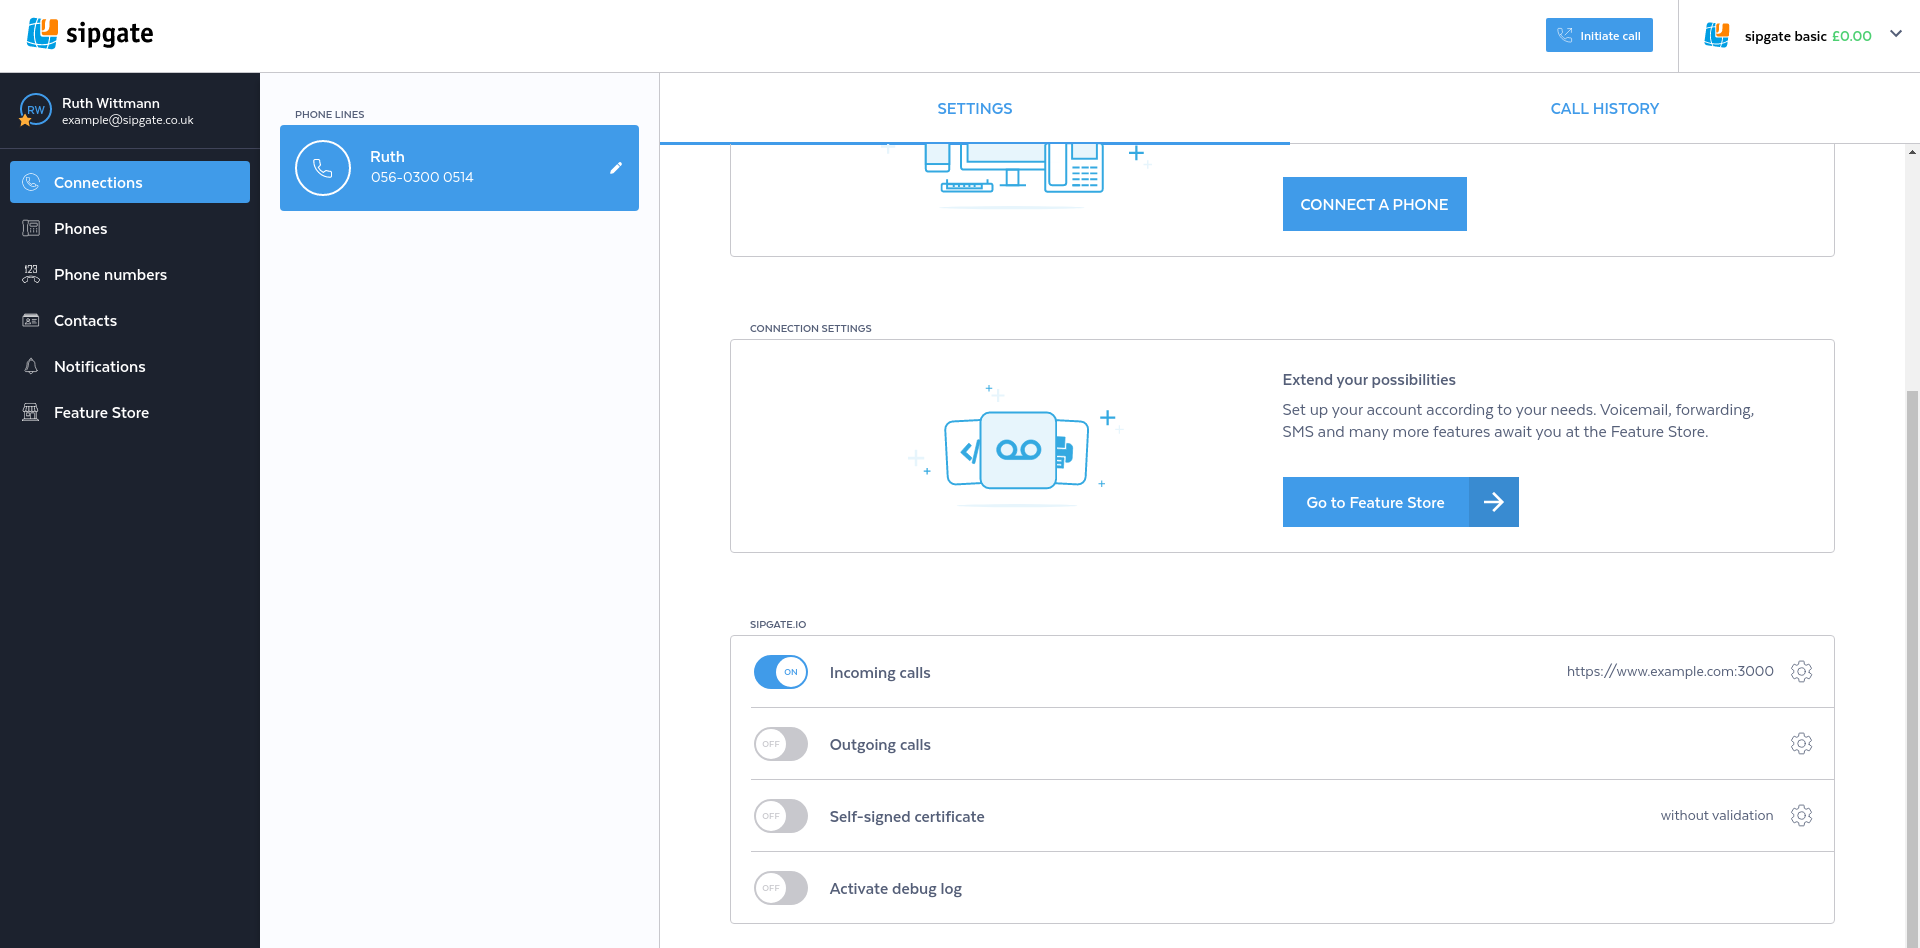
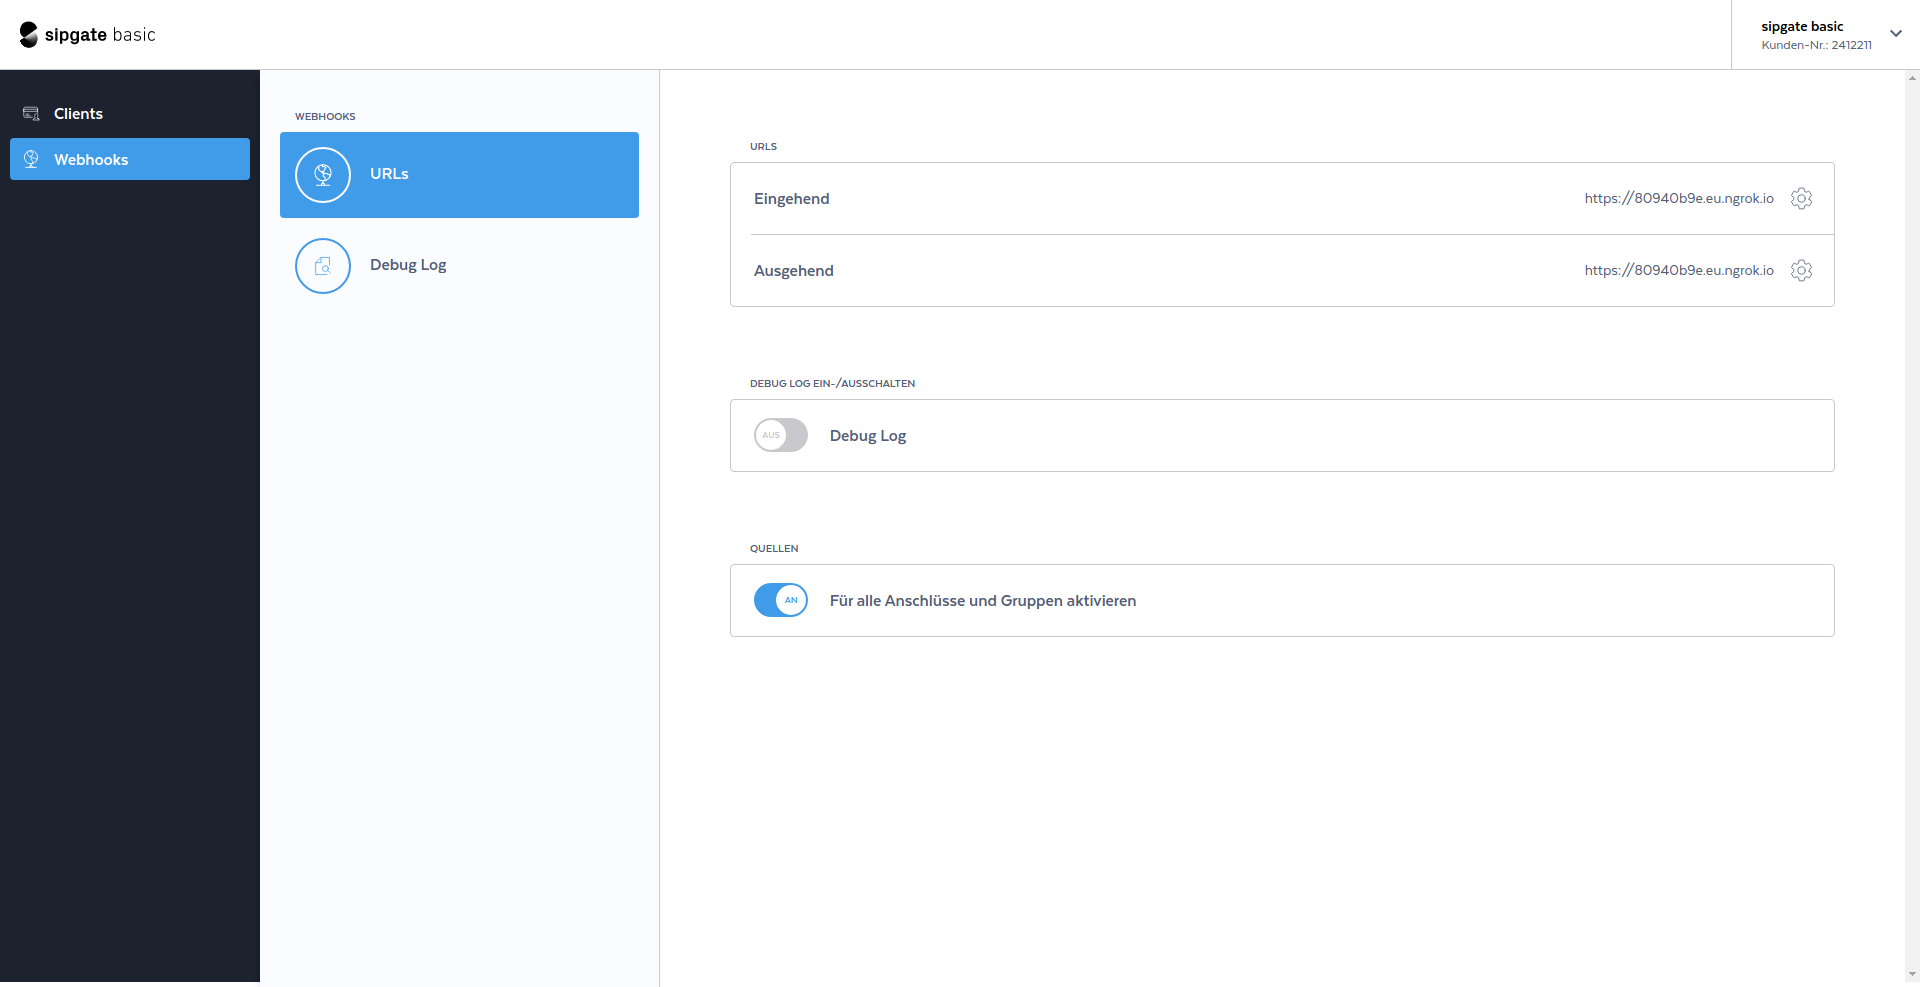
Update push api troubleshooting docs

diff --git a/docs/push-api/troubleshooting.md b/docs/push-api/troubleshooting.md
@@ -2,20 +2,17 @@
 
 ## Enable debug log
 
-You can enable logging for debugging purposes from your dashboard. You will find each request and the corresponding response in the logging table.
+You can enable logging for debugging purposes from your [webhooks dashboard](https://console.sipgate.com/webhooks). You will find each request and the corresponding response in the logging table.
 
-![Click on "Activate debug log", read and confirm the security warning.](../img/debug-sipgate-io-step1.png)
+1. Click on "Activate debug log".
+    ![Click on "Activate debug log".](../img/debug-sipgate-io-step1.png)
 
-Click on "Activate debug log", read and confirm the security warning.
+2. To view the logged requests, click on "Debug log" in the menu on the left.
+    ![To view the logged requests, click on "Debug log" in the menu on the left.](../img/debug-sipgate-io-step2.png)
 
-![To view the logged requests, click on the icon within the "Activate debug log" row.](../img/debug-sipgate-io-step2.png)
+3. Your request should be logged and look like this.
+    ![Your request should be logged and look like this.](../img/debug-sipgate-io-step3.png)
 
-To view the logged requests, click on the icon within the "Activate debug log" row.
-
-
-![Your request should be logged and look like this.](../img/debug-sipgate-io-step3.png)
-
-Your request should be logged and look like this.
 
 ### Inspect incoming network traffic
 
